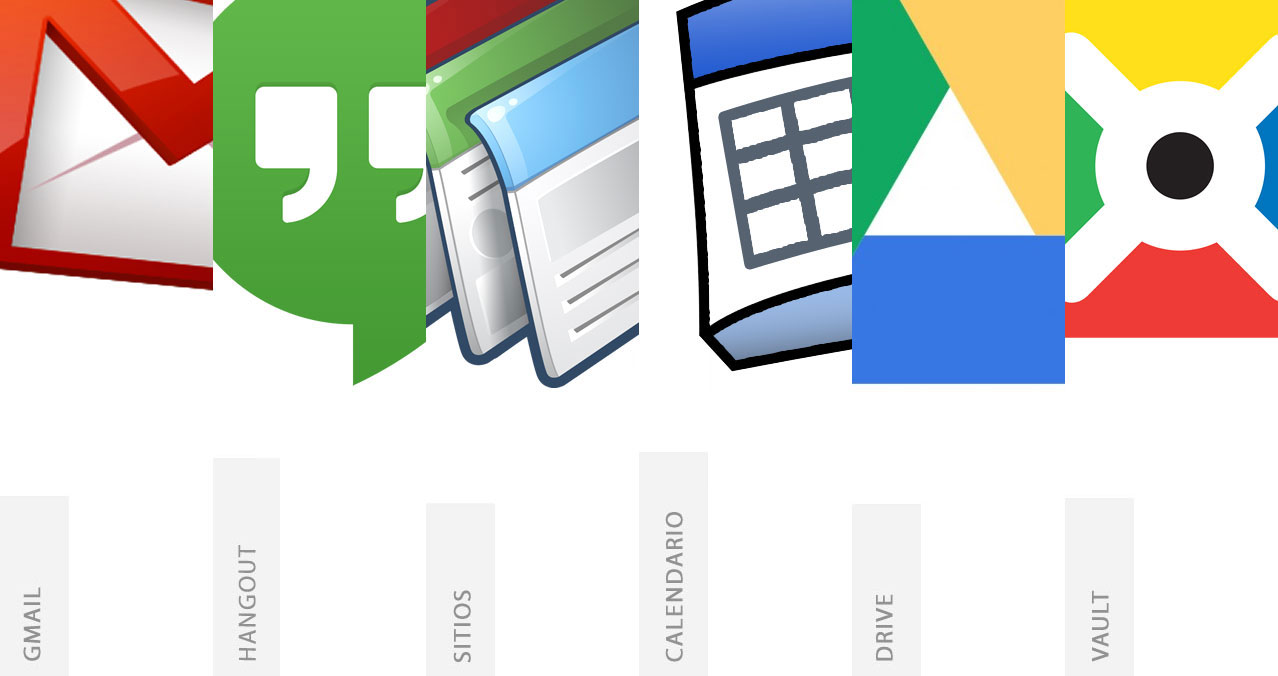
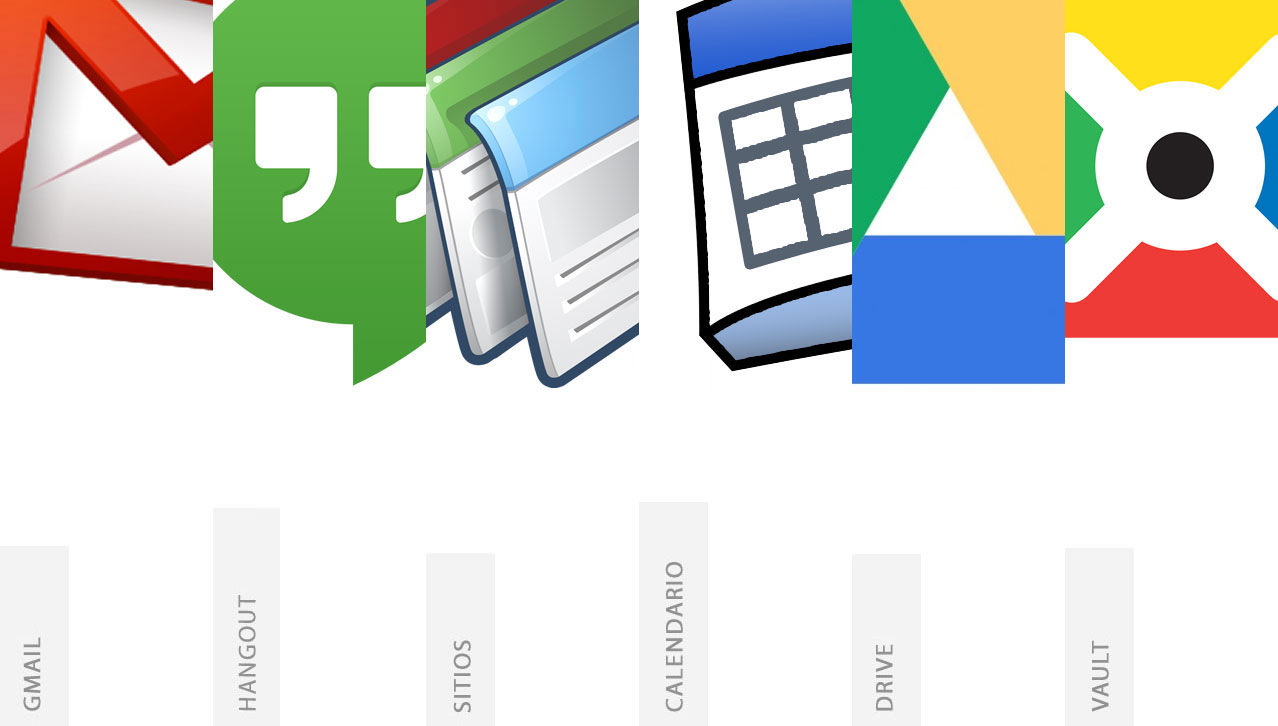
Cambios Paola

diff --git a/nuestra_oferta.html b/nuestra_oferta.html
@@ -154,16 +154,7 @@ $(function() {
 	})
 });
 </script>
-<script>
-  (function(i,s,o,g,r,a,m){i['GoogleAnalyticsObject']=r;i[r]=i[r]||function(){
-  (i[r].q=i[r].q||[]).push(arguments)},i[r].l=1*new Date();a=s.createElement(o),
-  m=s.getElementsByTagName(o)[0];a.async=1;a.src=g;m.parentNode.insertBefore(a,m)
-  })(window,document,'script','//www.google-analytics.com/analytics.js','ga');
 
-  ga('create', 'UA-43901245-1', 'luissnoop.github.io');
-  ga('send', 'pageview');
-
-</script>
 </head>
 <body>
 	<div class="contenedor">
@@ -305,7 +296,7 @@ $(function() {
 									<img src="images/icono-tab-vault.jpg" />
 								</div>
 								<h3 class="subtitulo">Vault es opcional. Incluye capacidades de archivado, e-Discovery y<br />control de la información por un monto adicional.</h3>
-								<div class="acordeones" style="width:660px">
+								<div class="acordeones" style="width:720px">
 									<h3>- Pol&iacute;ticas de retenci&oacute;n</h3>
 									<div>Define las pol&iacute;ticas de retenci&oacute;n que se aplicar&aacute;n autom&aacute;ticamente en tus mensajes de correo electr&oacute;nico y chat.<br />Archivado de chat y correo electr&oacute;nico<br />Tus mensajes de correo electr&oacute;nico y de chat se archivan y se conservan seg&uacute;n tus directrices. De esta manera, se evita que se borren archivos por accidente.</div>
 									<h3>- E-Discovery</h3>
@@ -344,5 +335,14 @@ $(function() {
 		</nav>
 	</footer>
 	</div>
+<script type="text/javascript">
+var gaJsHost = (("https:" == document.location.protocol) ? "https://ssl." : "http://www.");
+document.write(unescape("%3Cscript src='" + gaJsHost + "google-analytics.com/ga.js' type='text/javascript'%3E%3C/script%3E"));
+</script>
+<script type="text/javascript">
+var pageTracker = _gat._getTracker("UA-5078674-2");
+pageTracker._initData();
+pageTracker._trackPageview();
+</script>
 </body>
 </html>

diff --git a/ventajas.html b/ventajas.html
@@ -16,16 +16,6 @@ $(function() {
 	$(".ui-accordion-header:odd").addClass("odd");
 });
 </script>
-<script>
-  (function(i,s,o,g,r,a,m){i['GoogleAnalyticsObject']=r;i[r]=i[r]||function(){
-  (i[r].q=i[r].q||[]).push(arguments)},i[r].l=1*new Date();a=s.createElement(o),
-  m=s.getElementsByTagName(o)[0];a.async=1;a.src=g;m.parentNode.insertBefore(a,m)
-  })(window,document,'script','//www.google-analytics.com/analytics.js','ga');
-
-  ga('create', 'UA-43901245-1', 'luissnoop.github.io');
-  ga('send', 'pageview');
-
-</script>
 </head>
 <body>
 	<div class="contenedor">
@@ -73,7 +63,7 @@ $(function() {
 		</div>
 	</section>
 	<div class="logo_google_cont">
-		<div class="logo_descargar"><a href="#"><img src="images/boton-descargar-folleto.gif" width="134" height="148" /></a></div>
+		<div class="logo_descargar"><a href="http://www.snoopconsulting.com/snoop_es/templates/snoopconsulting_Licencias/images/licencias/folleto_google.pdf" target="_blank"><img src="images/boton-descargar-folleto.gif" width="134" height="148" /></a></div>
 		<div class="logo_google"><img src="images/logo-google-app.png" /></div>
 	</div>
 	<footer>
@@ -87,5 +77,14 @@ $(function() {
 		</nav>
 	</footer>
 	</div>
+<script type="text/javascript">
+var gaJsHost = (("https:" == document.location.protocol) ? "https://ssl." : "http://www.");
+document.write(unescape("%3Cscript src='" + gaJsHost + "google-analytics.com/ga.js' type='text/javascript'%3E%3C/script%3E"));
+</script>
+<script type="text/javascript">
+var pageTracker = _gat._getTracker("UA-5078674-2");
+pageTracker._initData();
+pageTracker._trackPageview();
+</script>
 </body>
 </html>

diff --git a/index.html b/index.html
@@ -7,16 +7,6 @@
 <!--[if lt IE 9]>
 	<script src="http://html5shim.googlecode.com/svn/trunk/html5.js"></script>
 <![endif]-->
-<script>
-  (function(i,s,o,g,r,a,m){i['GoogleAnalyticsObject']=r;i[r]=i[r]||function(){
-  (i[r].q=i[r].q||[]).push(arguments)},i[r].l=1*new Date();a=s.createElement(o),
-  m=s.getElementsByTagName(o)[0];a.async=1;a.src=g;m.parentNode.insertBefore(a,m)
-  })(window,document,'script','//www.google-analytics.com/analytics.js','ga');
-
-  ga('create', 'UA-43901245-1', 'luissnoop.github.io');
-  ga('send', 'pageview');
-
-</script>
 </head>
 <body>
 	<div class="contenedor">
@@ -65,5 +55,14 @@
 		</nav>
 	</footer>
 	</div>
+<script type="text/javascript">
+var gaJsHost = (("https:" == document.location.protocol) ? "https://ssl." : "http://www.");
+document.write(unescape("%3Cscript src='" + gaJsHost + "google-analytics.com/ga.js' type='text/javascript'%3E%3C/script%3E"));
+</script>
+<script type="text/javascript">
+var pageTracker = _gat._getTracker("UA-5078674-2");
+pageTracker._initData();
+pageTracker._trackPageview();
+</script>
 </body>
 </html>

diff --git a/servicios.html b/servicios.html
@@ -7,16 +7,6 @@
 <!--[if lt IE 9]>
 	<script src="http://html5shim.googlecode.com/svn/trunk/html5.js"></script>
 <![endif]-->
-<script>
-  (function(i,s,o,g,r,a,m){i['GoogleAnalyticsObject']=r;i[r]=i[r]||function(){
-  (i[r].q=i[r].q||[]).push(arguments)},i[r].l=1*new Date();a=s.createElement(o),
-  m=s.getElementsByTagName(o)[0];a.async=1;a.src=g;m.parentNode.insertBefore(a,m)
-  })(window,document,'script','//www.google-analytics.com/analytics.js','ga');
-
-  ga('create', 'UA-43901245-1', 'luissnoop.github.io');
-  ga('send', 'pageview');
-
-</script>
 </head>
 <body>
 	<div class="contenedor">
@@ -64,5 +54,14 @@
 		</nav>
 	</footer>
 	</div>
+<script type="text/javascript">
+var gaJsHost = (("https:" == document.location.protocol) ? "https://ssl." : "http://www.");
+document.write(unescape("%3Cscript src='" + gaJsHost + "google-analytics.com/ga.js' type='text/javascript'%3E%3C/script%3E"));
+</script>
+<script type="text/javascript">
+var pageTracker = _gat._getTracker("UA-5078674-2");
+pageTracker._initData();
+pageTracker._trackPageview();
+</script>
 </body>
 </html>

diff --git a/jquery.easing.1.3.css b/jquery.easing.1.3.css
@@ -4,7 +4,7 @@
 	overflow:hidden;
 }
 .ei_menu ul{
-	height:676px;
+	height:726px;
 	position:relative;
 	display:block;
 	width:1491px;
@@ -15,7 +15,7 @@
 .ei_menu ul li{
 	float:left;
 	width:213px;
-	height:676px;
+	height:726px;
 	position:relative;
 	overflow:hidden;
 	box-shadow:-3px -3px 10px #ccc;
@@ -25,7 +25,7 @@
 	left:0px;
 	top:0px;
 	width:213px;
-	height:676px;
+	height:726px;
 	background:transparent url(images/solapas-nuestra-oferta.jpg) no-repeat top left;
 }
 .pos1 span{
@@ -50,7 +50,7 @@
 	background:#fff;
 	position:absolute;
 	width:828px;
-	height:676px;
+	height:726px;
 	padding:0px;
 	left:213px;
 	top:0px;

diff --git a/estilos.css b/estilos.css
@@ -179,7 +179,7 @@ section .contenido_landing .columna_derecha_ventajas #acordeon{
 section .contenido_landing .acordeon_horizontal{
 	width:1280px;
 	height:828px;
-	background:transparent url(images/footer-nuestra-oferta.gif) 0px 676px no-repeat;
+	background:transparent url(images/footer-nuestra-oferta.gif) 0px 726px no-repeat;
 	display:block;
 	padding-bottom:4px;
 }
